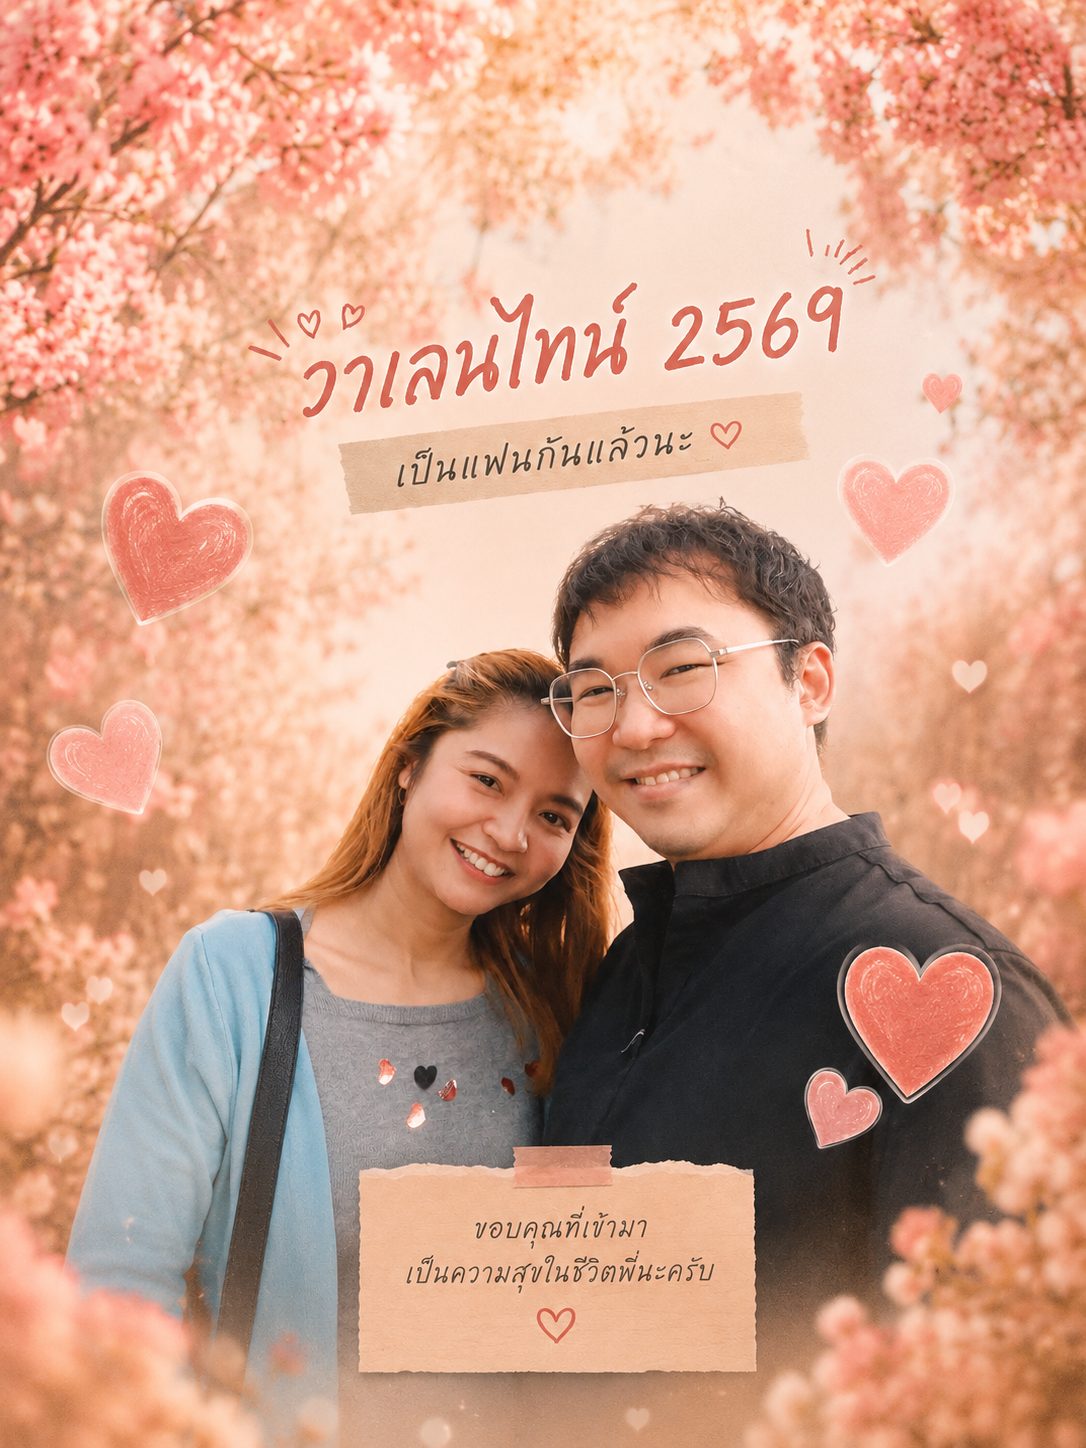
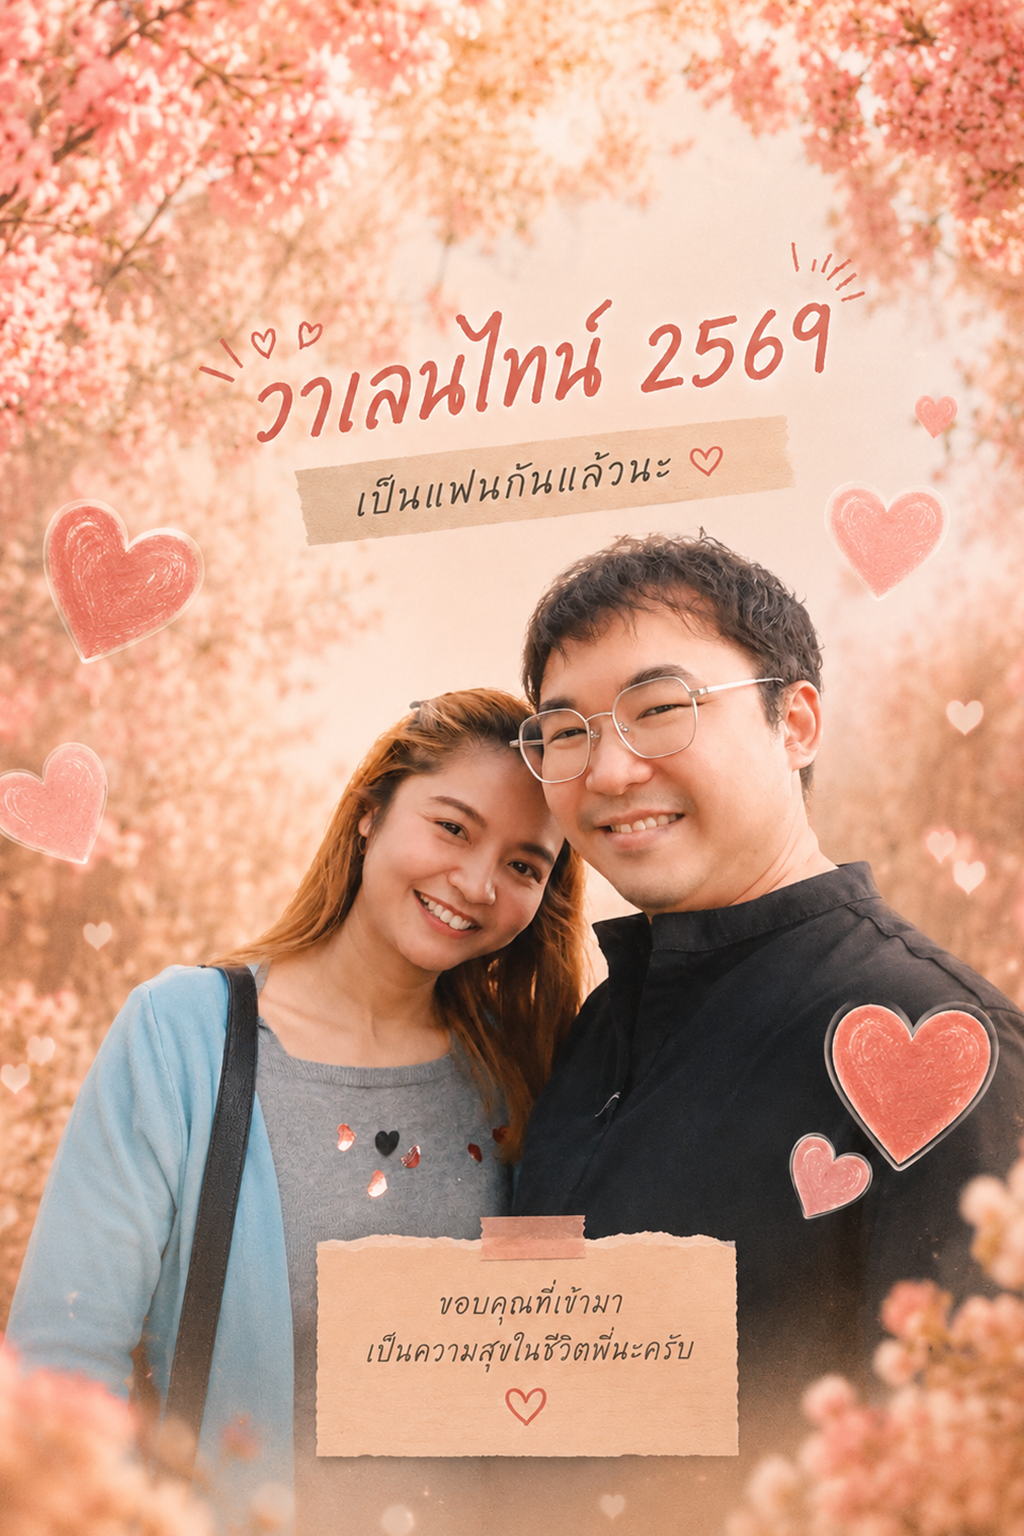
Refine scene framing with blurred background

diff --git a/css/style.css b/css/style.css
@@ -271,7 +271,8 @@ img {
 
 .scene__bg,
 .scene__veil,
-.scene__backdrop {
+.scene__backdrop,
+.scene__image {
   position: absolute;
   inset: 0;
 }
@@ -288,27 +289,67 @@ img {
 }
 
 .scene--hero .scene__bg--single {
-  background: url("../images/backgrounds/scene-01-bg-b.png") center top / contain no-repeat;
+  background: url("../images/backgrounds/scene-01-bg-b.png") center center / cover no-repeat;
 }
 
 .scene__bg--scene2 {
-  background: url("../images/backgrounds/scene-02-bg.png") center top / contain no-repeat;
+  background: url("../images/backgrounds/scene-02-bg.png") center center / cover no-repeat;
 }
 
 .scene__bg--scene3 {
-  background: url("../images/backgrounds/scene-03-bg.png") center top / contain no-repeat;
+  background: url("../images/backgrounds/scene-03-bg.png") center center / cover no-repeat;
 }
 
 .scene__bg--scene4 {
-  background: url("../images/backgrounds/scene-04-bg.png") center top / contain no-repeat;
+  background: url("../images/backgrounds/scene-04-bg.png") center center / cover no-repeat;
 }
 
 .scene__bg--scene5 {
-  background: url("../images/backgrounds/scene-05-bg.png") center top / contain no-repeat;
+  background: url("../images/backgrounds/scene-05-bg.png") center center / cover no-repeat;
 }
 
 .scene__bg--scene6 {
-  background: url("../images/backgrounds/scene-06-bg.png") center top / contain no-repeat;
+  background: url("../images/backgrounds/scene-06-bg.png") center center / cover no-repeat;
+}
+
+.scene__bg {
+  transform: scale(1.3);
+  filter: blur(28px);
+  opacity: 0.72;
+}
+
+.scene__image {
+  inset: 5px;
+  z-index: 2;
+  border-radius: 32px;
+  background-position: center center;
+  background-repeat: no-repeat;
+  background-size: contain;
+  box-shadow: 0 18px 42px rgba(73, 38, 29, 0.28);
+}
+
+.scene__image--scene1 {
+  background-image: url("../images/backgrounds/scene-01-bg-b.png");
+}
+
+.scene__image--scene2 {
+  background-image: url("../images/backgrounds/scene-02-bg.png");
+}
+
+.scene__image--scene3 {
+  background-image: url("../images/backgrounds/scene-03-bg.png");
+}
+
+.scene__image--scene4 {
+  background-image: url("../images/backgrounds/scene-04-bg.png");
+}
+
+.scene__image--scene5 {
+  background-image: url("../images/backgrounds/scene-05-bg.png");
+}
+
+.scene__image--scene6 {
+  background-image: url("../images/backgrounds/scene-06-bg.png");
 }
 
 .scene--hero .scene__bg--secondary {
@@ -326,7 +367,8 @@ img {
 .scene__hero-overlay {
   position: absolute;
   inset: 0;
-  background: linear-gradient(180deg, rgba(255, 247, 240, 0.06), rgba(112, 71, 55, 0.08));
+  z-index: 1;
+  background: linear-gradient(180deg, rgba(255, 247, 240, 0.14), rgba(112, 71, 55, 0.12));
   pointer-events: none;
 }
 
@@ -750,14 +792,8 @@ img {
     padding: 92px 0 170px;
   }
 
-  .scene--hero .scene__bg--single,
-  .scene__bg--scene2,
-  .scene__bg--scene3,
-  .scene__bg--scene4,
-  .scene__bg--scene5,
-  .scene__bg--scene6 {
-    background-position: center top;
-    background-size: 100% auto;
+  .scene__image {
+    inset: 5px;
   }
 
   .hero-copy h1 {
@@ -816,13 +852,8 @@ img {
     font-size: 1.9rem;
   }
 
-  .scene--hero .scene__bg--single,
-  .scene__bg--scene2,
-  .scene__bg--scene3,
-  .scene__bg--scene4,
-  .scene__bg--scene5,
-  .scene__bg--scene6 {
-    background-size: 100% auto;
+  .scene__image {
+    border-radius: 26px;
   }
 
   .gallery-grid {
@@ -869,13 +900,7 @@ img {
 }
 
 @media (min-aspect-ratio: 10 / 16) {
-  .scene--hero .scene__bg--single,
-  .scene__bg--scene2,
-  .scene__bg--scene3,
-  .scene__bg--scene4,
-  .scene__bg--scene5,
-  .scene__bg--scene6 {
-    background-position: center center;
-    background-size: auto 100%;
+  .scene__image {
+    background-size: contain;
   }
 }

diff --git a/index.html b/index.html
@@ -83,31 +83,37 @@
       <section class="scene scene--active scene--hero" id="scene-1" data-scene="1" data-title="Birthday">
         <div class="scene__bg scene__bg--single"></div>
         <div class="scene__hero-overlay"></div>
+        <div class="scene__image scene__image--scene1" aria-hidden="true"></div>
       </section>
 
       <section class="scene scene--fullbg" id="scene-2" data-scene="2" data-title="เดทแรกและทริปแรก">
         <div class="scene__bg scene__bg--scene2"></div>
         <div class="scene__hero-overlay"></div>
+        <div class="scene__image scene__image--scene2" aria-hidden="true"></div>
       </section>
 
       <section class="scene scene--fullbg" id="scene-3" data-scene="3" data-title="วาเลนไทน์ 2569">
         <div class="scene__bg scene__bg--scene3"></div>
         <div class="scene__hero-overlay"></div>
+        <div class="scene__image scene__image--scene3" aria-hidden="true"></div>
       </section>
 
       <section class="scene scene--fullbg" id="scene-4" data-scene="4" data-title="ทริปเขาคิชฌกูฎ">
         <div class="scene__bg scene__bg--scene4"></div>
         <div class="scene__hero-overlay"></div>
+        <div class="scene__image scene__image--scene4" aria-hidden="true"></div>
       </section>
 
       <section class="scene scene--fullbg" id="scene-5" data-scene="5" data-title="ใช้เวลาด้วยกัน">
         <div class="scene__bg scene__bg--scene5"></div>
         <div class="scene__hero-overlay"></div>
+        <div class="scene__image scene__image--scene5" aria-hidden="true"></div>
       </section>
 
       <section class="scene scene--fullbg" id="scene-6" data-scene="6" data-title="ดูหนังเวลาของครอบครัว">
         <div class="scene__bg scene__bg--scene6"></div>
         <div class="scene__hero-overlay"></div>
+        <div class="scene__image scene__image--scene6" aria-hidden="true"></div>
       </section>
 
       <section class="scene scene--gallery" id="scene-7" data-scene="7" data-title="Gallery">